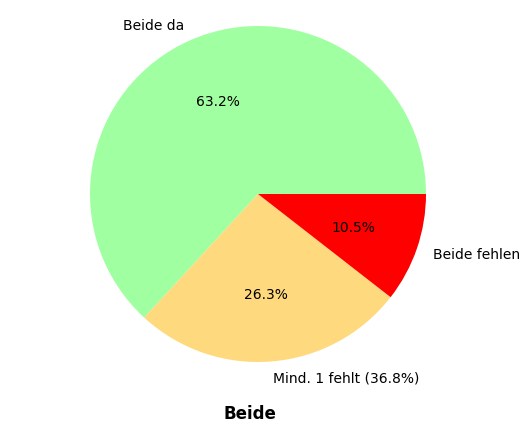
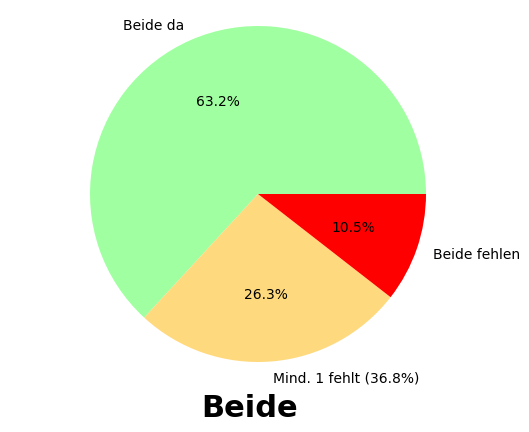
Increase subtitle font size in create_pie_chart function for improved visibility

Changed region(s): [[0.3629, 0.9028, 0.5747, 0.9931]]

diff --git a/src/kidscompass/charts.py b/src/kidscompass/charts.py
@@ -19,7 +19,7 @@ def create_pie_chart(values: list[int], labels: list[str], filename: str, colors
         ax.text(0.5, 0.5, "Keine Daten", ha="center", va="center", fontsize=14)
         ax.axis("off")
         if subtitle:
-            fig.text(0.5, 0.02, subtitle, ha="center", va="bottom", fontsize=14, fontweight='bold')
+            fig.text(0.5, 0.02, subtitle, ha="center", va="bottom", fontsize=22, fontweight='bold')
         fig.savefig(filename, bbox_inches="tight")
         plt.close(fig)
         if return_handles:
@@ -34,7 +34,7 @@ def create_pie_chart(values: list[int], labels: list[str], filename: str, colors
         wedges, texts, autotexts = ax.pie(values, labels=labels, autopct="%1.1f%%")
     ax.axis("equal")           # Kreis rund zeichnen
     if subtitle:
-        fig.text(0.5, 0.02, subtitle, ha="center", va="bottom", fontsize=14, fontweight='bold')
+        fig.text(0.5, 0.02, subtitle, ha="center", va="bottom", fontsize=22, fontweight='bold')
     fig.savefig(filename, bbox_inches="tight")
     if return_handles:
         plt.close(fig)
